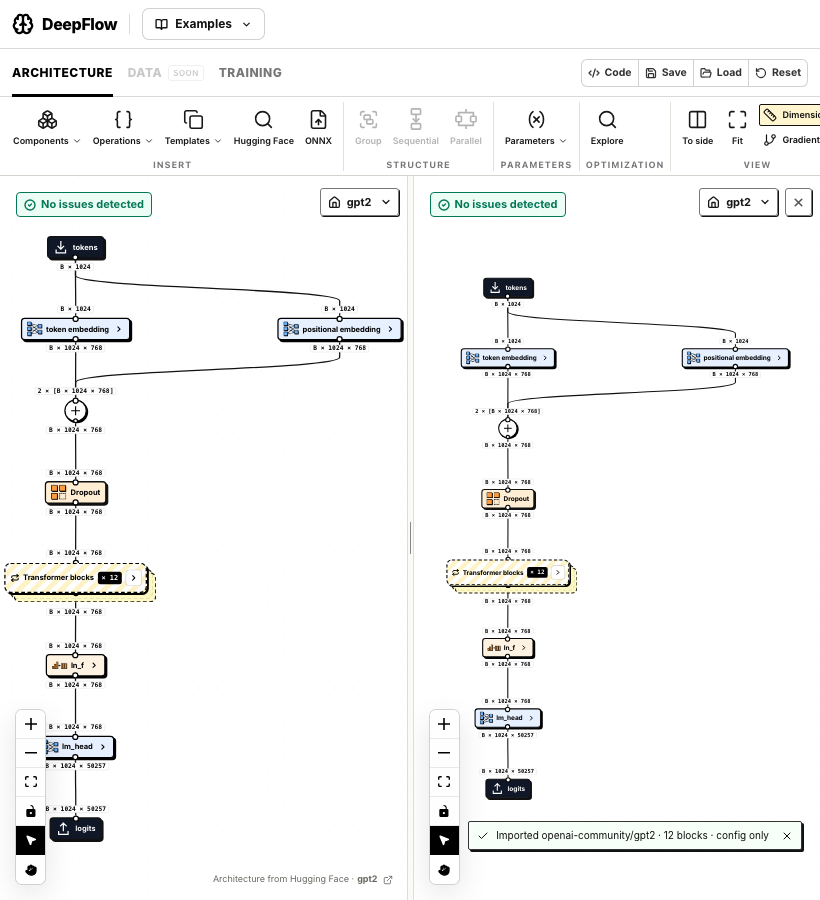
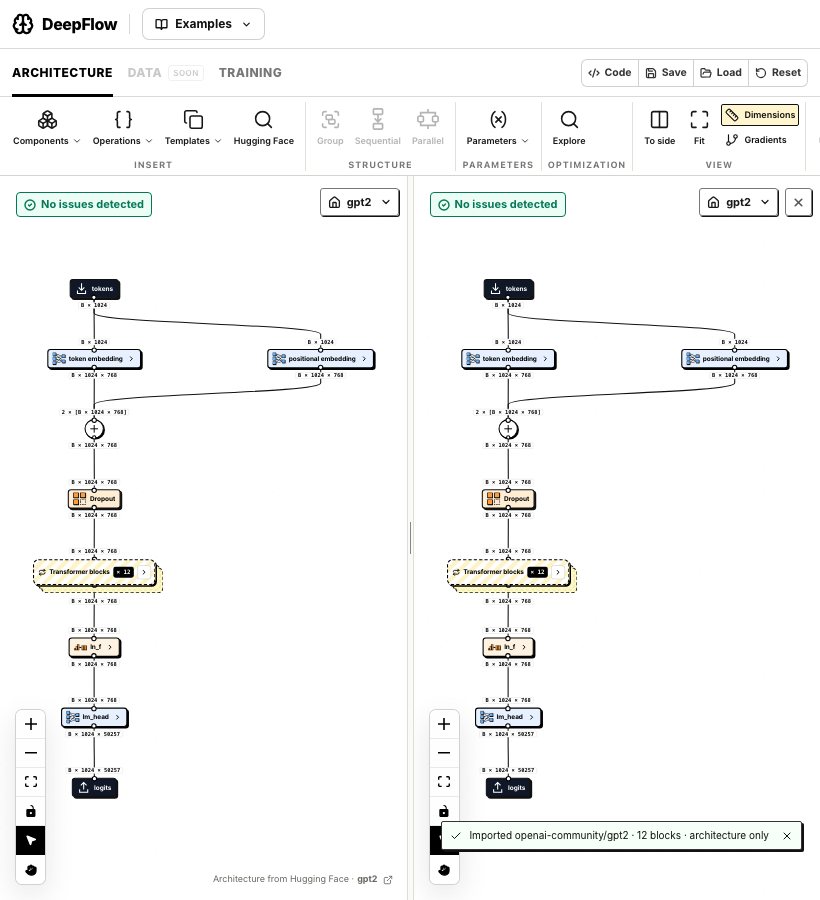
Use ONNX inside Hugging Face import and keep Insert focused on sources

diff --git a/src/components/HuggingFaceImport.jsx b/src/components/HuggingFaceImport.jsx
@@ -1,8 +1,8 @@
 import React, { useEffect, useId, useRef, useState } from 'react';
 import { createPortal } from 'react-dom';
 import { ArrowRight, ExternalLink, LoaderCircle, Search, X } from 'lucide-react';
-import { fetchHubModelConfig, parseModelReference, searchHubModels } from '../domain/huggingFace/client.js';
-import { inspectHubModel } from '../domain/huggingFace/index.js';
+import { parseModelReference, searchHubModels } from '../domain/huggingFace/client.js';
+import { prepareHubModel, selectHubOnnxFile } from '../domain/huggingFace/index.js';
 import './hugging-face-import.css';
 
 const isAbort = (error) => error?.name === 'AbortError';
@@ -23,6 +23,7 @@ export default function HuggingFaceImport({ open, onClose, onImport, currentArch
     const [searchError, setSearchError] = useState('');
     const [selectedId, setSelectedId] = useState('');
     const [preview, setPreview] = useState(null);
+    const [sourceChoice, setSourceChoice] = useState('');
     const [previewBusy, setPreviewBusy] = useState(false);
     const [previewError, setPreviewError] = useState('');
     const [importBusy, setImportBusy] = useState(false);
@@ -39,11 +40,14 @@ export default function HuggingFaceImport({ open, onClose, onImport, currentArch
         setCursor(null);
         setSelectedId('');
         setPreview(null);
+        setSourceChoice('');
+        setPreviewBusy(false);
+        setImportBusy(false);
         setSearchError('');
         setPreviewError('');
         setImportError('');
         searchHubModels('gpt2', { signal: controller.signal })
-            .then((result) => { setModels(result.models); setCursor(result.nextCursor); })
+            .then((result) => { if (!controller.signal.aborted) { setModels(result.models); setCursor(result.nextCursor); } })
             .catch((error) => { if (!isAbort(error)) setSearchError(error.message); })
             .finally(() => { if (!controller.signal.aborted) setSearchBusy(false); });
         requestAnimationFrame(() => searchRef.current?.focus());
@@ -78,11 +82,13 @@ export default function HuggingFaceImport({ open, onClose, onImport, currentArch
         searchAbort.current = controller;
         setSearchBusy(true);
         setSearchError('');
-        if (!nextCursor) { setModels([]); setSelectedId(''); setPreview(null); }
+        if (!nextCursor) { previewAbort.current?.abort(); setPreviewBusy(false); setModels([]); setSelectedId(''); setPreview(null); }
         try {
             const result = await searchHubModels(text, { cursor: nextCursor, signal: controller.signal });
-            setModels((previous) => nextCursor ? [...previous, ...result.models] : result.models);
-            setCursor(result.nextCursor);
+            if (!controller.signal.aborted) {
+                setModels((previous) => nextCursor ? [...previous, ...result.models] : result.models);
+                setCursor(result.nextCursor);
+            }
         } catch (error) {
             if (!isAbort(error)) setSearchError(error.message);
         } finally {
@@ -97,12 +103,35 @@ export default function HuggingFaceImport({ open, onClose, onImport, currentArch
         const modelId = typeof reference === 'string' ? reference : reference.repoId;
         setSelectedId(modelId);
         setPreview(null);
+        setSourceChoice('');
         setPreviewBusy(true);
         setPreviewError('');
         setImportError('');
         try {
-            const result = await fetchHubModelConfig(reference, { signal: controller.signal });
-            if (!controller.signal.aborted) setPreview(inspectHubModel(result));
+            const result = await prepareHubModel(reference, { signal: controller.signal });
+            if (!controller.signal.aborted) { setPreview(result); setSourceChoice(result.onnx?.filePath ?? ''); }
+        } catch (error) {
+            if (!isAbort(error)) setPreviewError(error.message);
+        } finally {
+            if (!controller.signal.aborted) setPreviewBusy(false);
+        }
+    };
+
+    const chooseSourceGraph = async (filePath) => {
+        if (!filePath || !preview) return;
+        previewAbort.current?.abort();
+        const controller = new AbortController();
+        previewAbort.current = controller;
+        setPreviewBusy(true);
+        setSourceChoice(filePath);
+        setPreviewError('');
+        setImportError('');
+        // A pending choice must never import the previously inspected graph.
+        setPreview((previous) => ({ ...previous, onnx: null, requiresOnnxSelection: false,
+            inspection: { family: previous.inspection.family, supported: false } }));
+        try {
+            const result = await selectHubOnnxFile(preview, filePath, { signal: controller.signal });
+            if (!controller.signal.aborted) setPreview(result);
         } catch (error) {
             if (!isAbort(error)) setPreviewError(error.message);
         } finally {
@@ -121,7 +150,7 @@ export default function HuggingFaceImport({ open, onClose, onImport, currentArch
     };
 
     const confirmImport = async () => {
-        if (!preview?.inspection.supported || importBusy) return;
+        if (!preview?.inspection.supported || importBusy || previewBusy) return;
         setImportBusy(true);
         setImportError('');
         try { await onImport(preview); onClose(); }
@@ -137,11 +166,13 @@ export default function HuggingFaceImport({ open, onClose, onImport, currentArch
         { label: 'heads', current: currentArchitecture.nHeads, imported: importedDimensions.nHeads },
     ].filter((item) => Number.isFinite(item.current)) : [];
     const changedDimensions = dimensions.filter((item) => item.current !== item.imported);
+    const sourceGraph = preview?.onnx?.operatorGraph;
+    const sourceIssues = preview?.onnx?.recognition?.issues ?? [];
     return createPortal(
         <div className="df-hf-backdrop" onMouseDown={(event) => { if (event.target === event.currentTarget) onClose(); }}>
             <section className="df-hf-dialog" role="dialog" aria-modal="true" aria-labelledby={titleId}>
                 <header className="df-hf-header">
-                    <div><span className="df-hf-header-kicker">MODEL CONFIGURATION</span><strong id={titleId}>Import from Hugging Face</strong><span>Explore a model configuration, then open it as editable architecture.</span></div>
+                    <div><span className="df-hf-header-kicker">MODEL ARCHITECTURE</span><strong id={titleId}>Import from Hugging Face</strong><span>Find a model, preview its structure, then open it in DeepFlow.</span></div>
                     <button className="df-hf-close" type="button" aria-label="Close Hugging Face import" onClick={onClose}><X size={18} /></button>
                 </header>
 
@@ -172,41 +203,68 @@ export default function HuggingFaceImport({ open, onClose, onImport, currentArch
                         {models.map((model) => <button key={model.id} type="button" className="df-hf-result" aria-selected={selectedId === model.id}
                             onClick={() => showPreview(model.id)}>
                             <strong>{model.id}</strong>
-                            <span>{[model.pipelineTag, formatCount(model.downloads) && `${formatCount(model.downloads)} downloads`].filter(Boolean).join(' · ') || 'Open config'}</span>
+                            <span>{[model.pipelineTag, formatCount(model.downloads) && `${formatCount(model.downloads)} downloads`].filter(Boolean).join(' · ') || 'Preview architecture'}</span>
                         </button>)}
                         {searchBusy && <p className="df-hf-loading"><LoaderCircle size={14} className="df-hf-spinner" /> Loading models…</p>}
                         {cursor && !searchBusy && <button type="button" className="df-hf-more" onClick={() => doSearch(null, cursor)}>Load more models <ArrowRight size={13} /></button>}
                     </div>
 
                     <div className="df-hf-preview" aria-live="polite">
-                        {!selectedId && <div className="df-hf-placeholder"><span>HF</span><strong>Select a model</strong><p>Read its public config.json and check whether DeepFlow can represent it.</p></div>}
-                        {previewBusy && <p className="df-hf-loading"><LoaderCircle size={16} className="df-hf-spinner" /> Reading config.json…</p>}
+                        {!selectedId && <div className="df-hf-placeholder"><span>HF</span><strong>Select a model</strong><p>DeepFlow checks its configuration and available exported graphs.</p></div>}
+                        {previewBusy && <p className="df-hf-loading" role="status"><LoaderCircle size={16} className="df-hf-spinner" /> Reading model architecture…</p>}
                         {previewError && <p className="df-hf-error" role="alert">{previewError}</p>}
                         {preview && <>
                             <div className="df-hf-preview-head">
-                                <div><span className="df-hf-eyebrow">{inspection.family}</span><h3>{preview.repoId}</h3><span className="df-hf-commit">{preview.requestedRevision} · {preview.commit.slice(0, 12)}</span></div>
-                                <span className={`df-hf-status ${inspection.supported ? 'is-supported' : ''}`}>{inspection.supported ? 'Supported' : 'Not mapped yet'}</span>
+                                <div><span className="df-hf-eyebrow">{sourceGraph && !preview.config ? 'Published architecture' : inspection.family}</span><h3>{preview.repoId}</h3><span className="df-hf-commit">{preview.requestedRevision} · {preview.commit.slice(0, 12)}</span></div>
+                                <span className={`df-hf-status ${inspection.supported ? 'is-supported' : preview.requiresOnnxSelection || previewBusy ? 'is-pending' : ''}`}>{previewBusy ? 'Checking…' : preview.requiresOnnxSelection ? 'Choose graph' : inspection.supported ? 'Supported' : 'Not mapped yet'}</span>
                             </div>
-                            {!inspection.supported ? <p className="df-hf-unsupported">{inspection.reason}</p> : <>
-                                <div className="df-hf-facts">
+                            {preview.onnxFiles?.length > 1 && !inspection.configuration && <div className="df-hf-source-picker">
+                                <label htmlFor={`${titleId}-graph`}>Source graph</label>
+                                <select id={`${titleId}-graph`} aria-label="Hugging Face source graph" value={sourceChoice}
+                                    onChange={(event) => void chooseSourceGraph(event.target.value)} disabled={importBusy}>
+                                    <option value="" disabled>Choose a graph…</option>
+                                    {preview.onnxFiles.map((file) => <option key={file.path} value={file.path}>{file.path}</option>)}
+                                </select>
+                                <p>This repository has multiple exports or model parts. Import uses the graph you choose.</p>
+                            </div>}
+                            {!inspection.supported && !previewBusy && inspection.reason && <p className={preview.requiresOnnxSelection ? 'df-hf-source-note' : 'df-hf-unsupported'}>{inspection.reason}</p>}
+                            {sourceGraph && <div className="df-hf-facts" aria-label="Source graph summary">
+                                <div><span>Operations</span><strong>{sourceGraph.nodes.length}</strong></div>
+                                <div><span>Components</span><strong>{preview.onnx.recognition.components.length}</strong></div>
+                                <div><span>Inputs</span><strong>{sourceGraph.inputs.filter((item) => !item.defaultInitializer).length}</strong></div>
+                                <div><span>Outputs</span><strong>{sourceGraph.outputs.length}</strong></div>
+                            </div>}
+                            {inspection.supported && <>
+                                {inspection.configuration && <div className="df-hf-facts">
                                     <div><span>Width</span><strong>{inspection.configuration.dModel}</strong></div>
                                     <div><span>Blocks</span><strong>{inspection.configuration.nLayers}</strong></div>
                                     <div><span>Heads</span><strong>{inspection.configuration.nHeads}</strong></div>
                                     <div><span>Context</span><strong>{inspection.configuration.context}</strong></div>
-                                </div>
+                                </div>}
                                 {dimensions.length > 0 && <div className="df-hf-impact" aria-label="Comparison with current architecture">
                                     <strong>Compared with current graph</strong>
                                     {changedDimensions.length ? <p>{changedDimensions.map((item) => `${item.label} ${item.current} → ${item.imported}`).join(' · ')}</p>
                                         : <p>Dimensions match. Import replaces the graph with {inspection.family} components and records their source; an identical layout may look unchanged.</p>}
                                 </div>}
                                 <div className="df-hf-section-title">Editable components</div>
-                                <ul className="df-hf-components">{inspection.components.map((component) => <li key={component.name}><strong>{component.name}</strong><span>{component.detail}</span></li>)}</ul>
-                                <div className="df-hf-limits"><strong>Import scope</strong>{inspection.limitations.map((item) => <p key={item}>{item}</p>)}</div>
+                                <ul className={`df-hf-components${sourceGraph ? ' is-operator-mapping' : ''}`}>{inspection.components.map((component, index) => <li key={`${component.name}-${index}`}><strong>{component.name}</strong><span>{component.detail}</span></li>)}</ul>
+                                <div className="df-hf-limits"><strong>Import scope</strong>{inspection.limitations.filter((item) => !item.startsWith('Operator graph only:')).map((item) => <p key={item}>{item}</p>)}</div>
                             </>}
-                            <details className="df-hf-config">
+                            {sourceGraph && <details className="df-hf-config df-hf-source-map">
+                                <summary>Inspect source mapping <span>{preview.onnx.filePath}</span></summary>
+                                <div className="df-hf-source-map-body">
+                                    <p>ONNX operations are mapped to editable DeepFlow components. The original graph stays attached after import.</p>
+                                    <ul>{preview.onnx.recognition.components.map((component, index) => <li key={index}>
+                                        <strong>{component.kind}</strong><span>{component.source.nodeNames.join(' + ')}</span>
+                                    </li>)}</ul>
+                                    {sourceIssues.length > 0 && <><strong>Unmapped operations</strong><ul>{sourceIssues.slice(0, 30).map((issue, index) => <li key={index}>{issue.message}</li>)}</ul>
+                                        {sourceIssues.length > 30 && <p>{sourceIssues.length - 30} more mapping issues.</p>}</>}
+                                </div>
+                            </details>}
+                            {preview.config && <details className="df-hf-config">
                                 <summary>Inspect config.json <span>{Object.keys(preview.config).length} fields</span></summary>
                                 <pre>{JSON.stringify(preview.config, null, 2)}</pre>
-                            </details>
+                            </details>}
                             <a className="df-hf-external" href={preview.url} target="_blank" rel="noopener noreferrer">View source revision <ExternalLink size={12} /></a>
                         </>}
                     </div>
@@ -217,8 +275,8 @@ export default function HuggingFaceImport({ open, onClose, onImport, currentArch
                     <button type="button" onClick={confirmImport}>Try again</button>
                 </div>}
                 <footer className="df-hf-footer">
-                    <span>Import replaces the current graph and clears training. Public configs only; no model code or weights are loaded.</span>
-                    <button type="button" className="df-hf-import" onClick={confirmImport} disabled={!inspection?.supported || importBusy}>
+                    <span>Import replaces the current graph and clears training. Pretrained weights are not loaded.</span>
+                    <button type="button" className="df-hf-import" onClick={confirmImport} disabled={!inspection?.supported || importBusy || previewBusy}>
                         {importBusy ? 'Importing…' : 'Import architecture'} <ArrowRight size={14} />
                     </button>
                 </footer>

diff --git a/src/components/architecture/ArchitectureRibbon.jsx b/src/components/architecture/ArchitectureRibbon.jsx
@@ -1,8 +1,7 @@
 import { useCallback, useEffect, useRef, useState } from 'react';
-import { ArrowUpRight, Boxes, Braces, Check, ChevronDown, Columns2, Copy, FileUp, GitBranch, Group, Layers, Maximize, Redo2, Ruler, Search, Undo2, Variable, X } from 'lucide-react';
+import { ArrowUpRight, Boxes, Braces, Check, ChevronDown, Columns2, Copy, GitBranch, Group, Layers, Maximize, Redo2, Ruler, Search, Undo2, Variable, X } from 'lucide-react';
 import { resolveGraphLevel } from '../../domain/architecture/index.js';
 import { importHuggingFaceArchitecture } from '../../domain/huggingFace/index.js';
-import { buildEditableOnnxArchitecture } from '../../domain/onnx/editable.js';
 import { effectiveTemplateId, inspectedInstanceIndex } from '../../domain/architecture/instanceStructure.js';
 import { resolveComponentContext } from '../../domain/componentContext.js';
 import { useValidation, useValidationContext } from '../../hooks/useValidation.js';
@@ -11,7 +10,6 @@ import { useTemplatesStore } from '../../stores/templatesStore.js';
 import { useTrainingStore } from '../../stores/trainingStore.js';
 import { recordArchitectureEdit, startArchitectureSession, useArchitectureHistory } from '../../stores/architectureHistory.js';
 import HuggingFaceImport from '../HuggingFaceImport.jsx';
-import OnnxImport from '../OnnxImport.jsx';
 import { useOpenToSide } from './OpenToSideContext.jsx';
 import BlockPalette from './BlockPalette.jsx';
 import OptimizationPanel from './OptimizationPanel.jsx';
@@ -59,7 +57,6 @@ export default function ArchitectureRibbon({ paneId, split, onInsert, onFitView 
     const openToSide = useOpenToSide();
     const [popup, setPopup] = useState(null);
     const [hfOpen, setHfOpen] = useState(false);
-    const [onnxOpen, setOnnxOpen] = useState(false);
     const [optimizationOpen, setOptimizationOpen] = useState(false);
     const [popupPosition, setPopupPosition] = useState({ left: 8, top: 56, width: 310 });
     const [parameterScope, setParameterScope] = useState('global');
@@ -84,7 +81,6 @@ export default function ArchitectureRibbon({ paneId, split, onInsert, onFitView 
         if (restoreFocus) triggerRef.current?.focus({ preventScroll: true });
     }, []);
     const closeHf = useCallback(() => setHfOpen(false), []);
-    const closeOnnx = useCallback(() => setOnnxOpen(false), []);
     const closeOptimization = useCallback(() => setOptimizationOpen(false), []);
     const importHf = useCallback((preview) => {
         const previous = {
@@ -110,40 +106,7 @@ export default function ArchitectureRibbon({ paneId, split, onInsert, onFitView 
             }
         });
         const blocks = source.configuration?.nLayers;
-        setNotice(`Imported ${source.repoId}${blocks ? ` · ${blocks} blocks` : ''} · config only`);
-        requestAnimationFrame(() => requestAnimationFrame(() => onFitView?.()));
-        return source;
-    }, [architectureStore, onFitView]);
-    const importOnnx = useCallback((operatorGraph, fileName) => {
-        const mapped = buildEditableOnnxArchitecture(operatorGraph, { fileName });
-        const previous = {
-            architecture: useArchitectureStore.getState(),
-            templates: useTemplatesStore.getState(),
-            training: useTrainingStore.getState(),
-            pane: architectureStore.getState(),
-        };
-        const source = startArchitectureSession(() => {
-            try {
-                architectureStore.getState().goToLevel(0);
-                useArchitectureStore.setState({
-                    graph: mapped.graph, currentPath: [], openPaths: [], selectedNodeIds: [],
-                    expandedNodeId: null, inspectedIterations: {}, repeatSelections: {}, repeatEditModes: {}, repeatEditError: null,
-                });
-                if (architectureStore !== useArchitectureStore) architectureStore.setState({
-                    currentPath: [], openPaths: [], selectedNodeIds: [], expandedNodeId: null,
-                    inspectedIterations: {}, repeatSelections: {}, repeatEditModes: {}, repeatEditError: null,
-                });
-                useTrainingStore.getState().resetGraph();
-                return mapped.source;
-            } catch (error) {
-                useTemplatesStore.setState(previous.templates, true);
-                useArchitectureStore.setState(previous.architecture, true);
-                useTrainingStore.setState(previous.training, true);
-                architectureStore.setState(previous.pane, true);
-                throw error;
-            }
-        });
-        setNotice(`Imported ${source.modelName} · ${source.opCount} ONNX operators mapped`);
+        setNotice(`Imported ${source.repoId}${blocks ? ` · ${blocks} blocks` : ''} · architecture only`);
         requestAnimationFrame(() => requestAnimationFrame(() => onFitView?.()));
         return source;
     }, [architectureStore, onFitView]);
@@ -265,8 +228,7 @@ export default function ArchitectureRibbon({ paneId, split, onInsert, onFitView 
                     <Braces size={21} strokeWidth={1.8} /><span>Operations <ChevronDown size={10} /></span>
                 </button>
                 <RibbonButton icon={Copy} aria-label="Browse templates" aria-expanded={popup === 'templates'} aria-haspopup="menu" onClick={(event) => togglePopup('templates', event)} title="Insert a saved project template">Templates <ChevronDown size={10} /></RibbonButton>
-                <RibbonButton icon={Search} aria-label="Import from Hugging Face" onClick={() => { closePopup(); setHfOpen(true); }} title="Search Hugging Face model configs and import a supported architecture">Hugging Face</RibbonButton>
-                <RibbonButton icon={FileUp} aria-label="Import ONNX file" onClick={() => { closePopup(); setOnnxOpen(true); }} title="Inspect a local ONNX operator graph and import a fully mapped architecture">ONNX</RibbonButton>
+                <RibbonButton icon={Search} aria-label="Import from Hugging Face" onClick={() => { closePopup(); setHfOpen(true); }} title="Find a Hugging Face model and import its architecture">Hugging Face</RibbonButton>
             </RibbonGroup>
             <RibbonGroup label="Structure">
                 <RibbonButton icon={Group} disabled={selection.length < 2} aria-label="Group selection into component" aria-expanded={popup === 'group' && selection.length > 1} onClick={(event) => { setGroupName('Component'); togglePopup('group', event); }} title={selection.length > 1 ? 'Group selected blocks into a reusable component' : 'Select at least two blocks to group'}>Group</RibbonButton>
@@ -329,8 +291,6 @@ export default function ArchitectureRibbon({ paneId, split, onInsert, onFitView 
             nHeads: graph.parameters?.find((parameter) => parameter.name === 'n_heads')?.default,
             source: graph.importSource?.repoId,
         }} />
-        <OnnxImport open={onnxOpen} onClose={closeOnnx} onImport={importOnnx}
-            currentSource={graph.importSource?.provider === 'onnx' ? graph.importSource : null} />
         {(notice || (error && popup !== 'group')) && <div className={`df-ribbon-notice${error ? ' is-error' : ''}`} role={error ? 'alert' : 'status'}>{!error && <Check size={12} />}<span>{error || notice}</span><button type="button" aria-label="Dismiss message" onClick={() => { setNotice(''); setError(''); }}><X size={12} /></button></div>}
     </div>;
 }

diff --git a/src/components/hugging-face-import.css b/src/components/hugging-face-import.css
@@ -49,6 +49,18 @@
 .df-hf-commit { color: #666; font-family: ui-monospace, monospace; font-size: 10px; }
 .df-hf-status { flex: none; padding: 4px 7px; border: 1px solid #9b3b3b; background: #ffe4e2; color: #8b1717; font-size: 10px; font-weight: 800; }
 .df-hf-status.is-supported { border-color: #39724d; background: #dff5df; color: #215632; }
+.df-hf-status.is-pending { border-color: #777; background: #f6f6f3; color: #444; }
+.df-hf-source-picker { display: grid; gap: 6px; margin-top: 12px; min-width: 0; }
+.df-hf-source-picker label { font-size: 10px; font-weight: 800; }
+.df-hf-source-picker select { width: 100%; min-width: 0; height: 32px; padding: 4px 24px 4px 8px; border: 1px solid #111; border-radius: 2px; background: #fff; font: 700 11px/1.3 ui-monospace, monospace; }
+.df-hf-source-picker p, .df-hf-source-note { margin: 0; color: #555; font-size: 10px; line-height: 1.4; }
+.df-hf-source-note { margin-top: 10px; }
+.df-hf-source-map summary > span { min-width: 0; max-width: 55%; overflow: hidden; white-space: nowrap; text-overflow: ellipsis; }
+.df-hf-source-map-body { max-height: 240px; overflow: auto; padding: 9px 10px; border-top: 1px solid #ddd; font-size: 10px; line-height: 1.4; }
+.df-hf-source-map-body p { margin: 0 0 8px; color: #555; }
+.df-hf-source-map-body ul { display: grid; gap: 5px; margin: 0 0 9px; padding: 0; list-style: none; }
+.df-hf-source-map-body li { display: flex; flex-wrap: wrap; gap: 3px 8px; padding-bottom: 5px; border-bottom: 1px solid #eee; overflow-wrap: anywhere; }
+.df-hf-source-map-body li span { color: #555; font-family: ui-monospace, monospace; }
 .df-hf-unsupported { padding: 12px; border: 1px solid #a21818; background: #fff3f1; font-size: 11px; line-height: 1.4; }
 .df-hf-facts { display: grid; grid-template-columns: repeat(4, 1fr); gap: 6px; margin-top: 13px; }
 .df-hf-facts > div { display: grid; gap: 4px; padding: 9px; border: 1px solid #111; background: #fff; }
@@ -61,6 +73,10 @@
 .df-hf-components li { display: flex; justify-content: space-between; gap: 12px; padding: 7px 0; border-bottom: 1px solid #e8e8e8; font-size: 10px; }
 .df-hf-components strong { font-weight: 750; }
 .df-hf-components span { color: #666; text-align: right; }
+.df-hf-components.is-operator-mapping { max-height: 178px; overflow-y: auto; }
+.df-hf-components.is-operator-mapping li { min-width: 0; }
+.df-hf-components.is-operator-mapping strong { min-width: 0; overflow-wrap: anywhere; }
+.df-hf-components.is-operator-mapping span { flex: 0 0 46%; }
 .df-hf-limits { margin-top: 15px; padding: 10px 12px; border: 1px solid #111; background: #fff; }
 .df-hf-limits strong { font-size: 10px; }
 .df-hf-limits p { margin: 5px 0 0; color: #555; font-size: 10px; line-height: 1.35; }

diff --git a/src/components/architecture/ArchitectureWorkspace.jsx b/src/components/architecture/ArchitectureWorkspace.jsx
@@ -68,7 +68,7 @@ function GraphPane({ id, active, onActivate, onClose, registerCommands }) {
                     href={`https://huggingface.co/${importSource.repoId}/tree/${encodeURIComponent(importSource.commit)}`}
                     target="_blank" rel="noopener noreferrer"
                     aria-label={`View imported Hugging Face source ${importSource.repoId}`}
-                    title={`Imported from ${importSource.repoId} at ${importSource.commit}. Configuration only; weights were not loaded.`}>
+                    title={`Imported from ${importSource.repoId} at ${importSource.commit}${importSource.fileName ? ` · ${importSource.fileName}` : ''}. Architecture only; weights were not loaded.`}>
                     <span>Architecture from Hugging Face · </span>
                     <strong className="df-import-source-full">{importSource.repoId}</strong>
                     <strong className="df-import-source-short">{importSource.repoId.split('/').at(-1)}</strong>

diff --git a/src/components/architecture/NodeInspector.jsx b/src/components/architecture/NodeInspector.jsx
@@ -297,7 +297,7 @@ export default function NodeInspector() {
                 {node.kind === 'supernode' && <SupernodeBody id={id} node={node} />}
                 {node.kind === 'repeat' && <RepeatBody id={id} node={node} />}
                 <Issues errors={nodeErrors} warnings={warnings} />
-                {rootGraph.importSource?.provider === 'onnx' && <OnnxSourceDetails source={node.onnxSource}
+                {rootGraph.importSource?.operatorGraph && <OnnxSourceDetails source={node.onnxSource}
                     operatorGraph={rootGraph.importSource.operatorGraph} />}
             </div></ParameterBindingsProvider>
         </aside>

diff --git a/README.md b/README.md
@@ -22,8 +22,8 @@ npm run dev
 - **Repeat:** use **Structure → Sequential / Parallel** for selected blocks or a template instance. Click the active mode again to return to a single instance; clicking the other mode switches directly. Set the number of steps or instances in the inspector with a value or expression such as `$H`; turning repeat off and on retains that setting. The **Structure → Block 1/12** (or Head/Step) menu selects an instance, applies a selection rule, and chooses parameter and structure edit scope. Displayed instance numbers start at 1; the formula index `i` starts at 0 and is configured under **Parameter formulas**. The compact level menu at the top right of each canvas navigates among opened component levels and can open a level to the side.
 - **Canvas:** Shift/Command-click for multiple selection, drag the background to select, hold Space to pan, and use Delete/Backspace to remove selected nodes. Select a connection and drag an endpoint to reconnect or release it on empty canvas to detach it.
 - **Copy/Paste:** `Cmd/Ctrl+C` copies the selected nodes and their internal connections; `Cmd/Ctrl+V` pastes offset copies into the focused graph pane. Component copies reference the same template definition. Native text copy/paste continues to work inside fields.
-- **Save/Load:** graphs persist in this browser. Save downloads the architecture, templates and training graph together as JSON. Load opens that workspace. These files use the V2 schema.
-- **Import:** **Insert → Hugging Face** searches supported model configurations and builds editable templates without loading pretrained weights. **Insert → ONNX** reads a local `.onnx` file and previews its original operators beside the DeepFlow components they map to. An editable ONNX import currently requires a single float32 tensor input/output and a complete chain of supported Linear and activation patterns; otherwise the operator view explains the unmapped parts and leaves the current graph intact. A successful import retains a read-only snapshot of the original operator graph and each component's source operations. Weights are not imported.
+- **Save/Load:** graphs persist in this browser. Save downloads the architecture, templates and training graph together as JSON. Load opens a V2 JSON workspace or a local `.onnx` file. An ONNX file opens a preview of the source operators and their editable component mapping before replacing the graph.
+- **Import:** **Insert → Hugging Face** searches model repositories and previews their architecture. Supported configurations build editable templates; other models use a published ONNX graph from the same pinned revision as an intermediate representation. ONNX-only repositories work without `config.json`. If the repository contains several graphs, select the desired export or model part explicitly. Every operator must have a supported editable mapping before import; otherwise the preview explains the missing mappings and preserves the current graph. Source operations and provenance remain attached after import. Pretrained weights are not loaded.
 - **Code:** inspect or download generated `model.py` and `train.py`.
 
 ## Standard components and copies
@@ -80,7 +80,9 @@ This is a research prototype. Shape validation and PyTorch generation cover a su
 
 Repeat counts must resolve to integers from 1–256. Validation/export limit template nesting to 8 levels and expansion to 20,000 nodes. Export rejects validation errors, including unresolved counts, indivisible splits, collection-count mismatches, and invalid named input ports. The GPT-2 example includes explicit causal attention; tied embedding/output weights and a verified end-to-end GPT-2 training pipeline remain outside the current scope.
 
-ONNX import currently accepts local graph files up to 64 MiB and maps only a narrow, whole-graph subset. Unsupported operators, branches, multiple data ports, or nested control-flow graphs remain visible in the preview but are not converted to editable DeepFlow nodes. External tensor metadata can define shapes, but external tensor files and pretrained values are not loaded. Hugging Face configuration import and local ONNX import are separate paths for now.
+The shared ONNX converter accepts graph files up to 64 MiB and supports a subset of float32 operators, including Linear patterns, Conv2d with explicit symmetric padding, activations, pooling, Flatten, residual arithmetic, MatMul, Concat and simple transposes. It preserves branches, ordered input ports and multiple graph outputs. Unsupported operators, attributes, dtypes and control-flow graphs prevent editable import. Exposed initializer tensors become frozen Parameters with their source shapes; actual tensor values are not loaded. The original operator graph is a snapshot, not a live reverse export of subsequent edits.
+
+Hugging Face import can consume an ONNX graph already published in the chosen repository. It does not yet run a server-side exporter for repositories that contain only framework weights, or assemble separate encoder/decoder files automatically. ONNX broadens the common conversion path but does not by itself make every model editable.
 
 ## Source map
 
